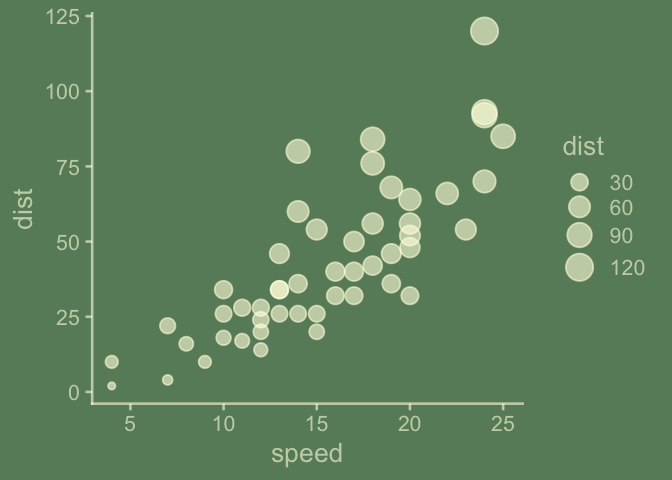
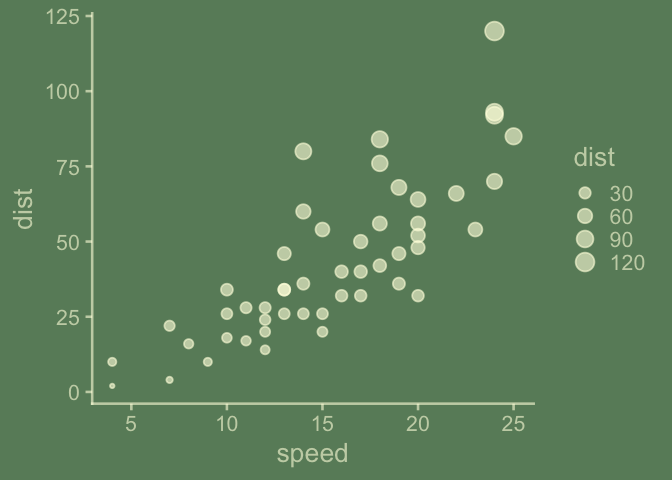
new geom theming

diff --git a/README.md b/README.md
@@ -48,6 +48,8 @@ theme_classic %>% args()
 #>     base_line_size = base_size/22, base_rect_size = base_size/22, 
 #>     ink = "black", paper = "white") 
 #> NULL
+
+tc <- theme_classic()
 ```
 
 ``` r
@@ -261,6 +263,10 @@ GeomStratum$default_aes <- aes(color = from_theme(ggplot2:::col_mix(ink, paper, 
                                linetype = from_theme(bordertype),
                                alpha = NA)
 
+# Alternative Step 2  An in-script, alternative could look like this
+aes_update <- aes(color = from_theme(ggplot2:::col_mix(ink, paper, 0.15)))
+GeomStratum$default_aes <- GeomRect$default_aes |> modifyList(aes_update)
+
 ggplot(data = titanic_flat) + # Ok Lets look at this titanic data
   aes(y = Freq, axis1 = Sex, axis2 = Survived) + # Here some variables of interest
   ggchalkboard:::theme_chalkboard(base_size = 18) + # in a alluvial plot first look
@@ -271,22 +277,6 @@ ggplot(data = titanic_flat) + # Ok Lets look at this titanic data
 
 <img src="man/figures/README-unnamed-chunk-13-2.png" width="100%" />
 
-``` r
-
-# An in-script, alternative could look like this
-GeomStratum$default_aes <- modifyList(GeomRect$default_aes, 
-                                      aes(color = from_theme(ggplot2:::col_mix(ink, paper, 0.15))))
-
-ggplot(data = titanic_flat) + # Ok Lets look at this titanic data
-  aes(y = Freq, axis1 = Sex, axis2 = Survived) + # Here some variables of interest
-  ggchalkboard:::theme_chalkboard(base_size = 18) + # in a alluvial plot first look
-  geom_alluvium() + # And we are ready to look at flow
-  geom_stratum() + # And we can label our stratum axes
-  stat_stratum(geom = "text", aes(label = after_stat(stratum))) 
-```
-
-<img src="man/figures/README-unnamed-chunk-13-3.png" width="100%" />
-
 Further coordination can be done when it comes to scales:
 
 ``` r
@@ -296,14 +286,37 @@ scale_size_chalkboard <- function(...){
   
 }
 
+
+ggplot2::scale_size
+#> function (name = waiver(), breaks = waiver(), labels = waiver(), 
+#>     limits = NULL, range = NULL, transform = "identity", trans = deprecated(), 
+#>     guide = "legend", aesthetics = "size") 
+#> {
+#>     palette <- if (!is.null(range)) 
+#>         pal_area(range)
+#>     else NULL
+#>     continuous_scale(aesthetics, palette = palette, name = name, 
+#>         breaks = breaks, labels = labels, limits = limits, transform = transform, 
+#>         trans = trans, guide = guide)
+#> }
+#> <bytecode: 0x7f85f1fd8758>
+#> <environment: namespace:ggplot2>
+
 ggplot(data = cars) + 
   aes(x = speed, y = dist, size = dist) + 
   geom_point() + 
-  theme_chalkboard() + 
-  scale_size_chalkboard()
+  theme_chalkboard() 
 ```
 
 <img src="man/figures/README-unnamed-chunk-14-1.png" width="100%" />
+
+``` r
+
+last_plot() + 
+  scale_size_chalkboard()
+```
+
+<img src="man/figures/README-unnamed-chunk-14-2.png" width="100%" />
 
 Color and fill scale are probably of greater interest, I know. Something
 to come back to.
